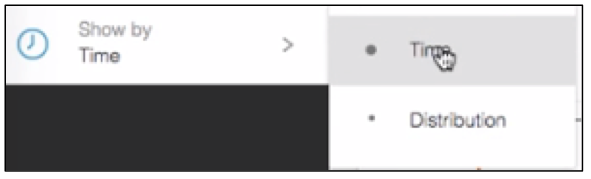
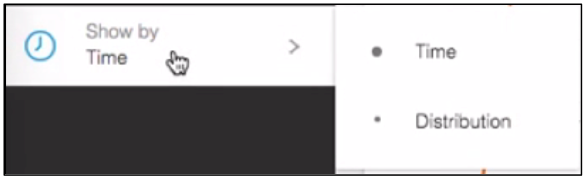
Updates inspecting-and-visualizing-raw-data/using-a-raw-data-visualization.md
Auto commit by GitBook Editor

diff --git a/inspecting-and-visualizing-raw-data/using-a-raw-data-visualization.md b/inspecting-and-visualizing-raw-data/using-a-raw-data-visualization.md
@@ -50,7 +50,7 @@ You can generate your raw data into a chart to visualize it.
     ![](/inspecting-and-visualizing-raw-data/Raw Data Visualization12.png)  
     **NOTE: **You can view the results as a chart again by clicking the chart button in the upper-right.
 
-15. In the left, click **Show by to** change the time display into a distribution \(i.e., how often the variable you selected occurs at certain values\).  
+15. On the left, click **Show by** to change the time display into a distribution \(i.e., how often the variable you selected occurs at certain values\). The current selection will appear under Show by on the left.  
     ![](/inspecting-and-visualizing-raw-data/Raw Data Visualization13.png)  
     ![](/inspecting-and-visualizing-raw-data/Raw Data Visualization14.png)
 
